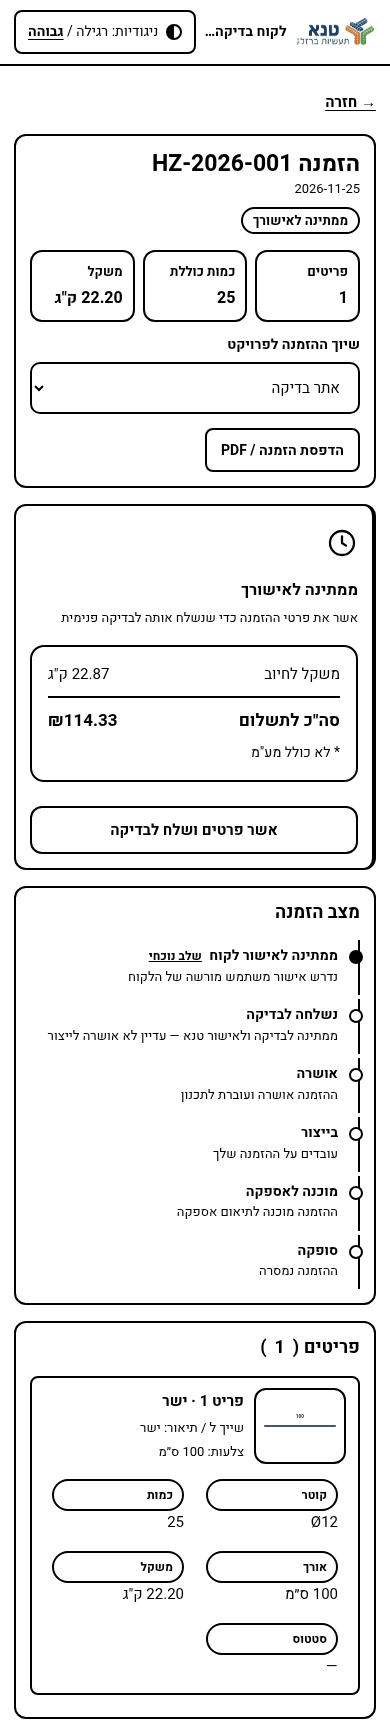
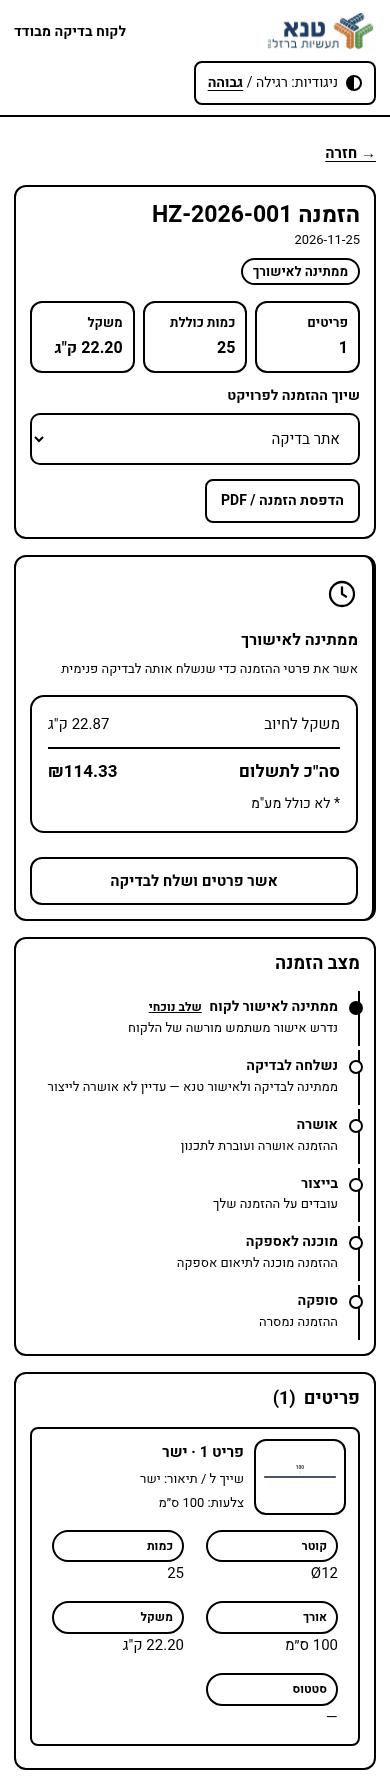
Refine customer portal dates and responsive layout

diff --git a/public/customer.html b/public/customer.html
@@ -635,7 +635,7 @@
       </div>
       <div class="field">
         <label for="delivDate">תאריך אספקה</label>
-        <input type="date" id="delivDate"/>
+        <input id="delivDate" type="text" lang="he" dir="ltr" inputmode="numeric" maxlength="10" placeholder="dd/mm/yyyy" oninput="maskPortalDate(this)"/>
       </div>
       <div class="delivery-fields">
         <div class="field">
@@ -1389,8 +1389,8 @@ function renderSiteDetail(data) {
       <div class="site-detail-kpi"><span>ממתין לאישור</span><strong>${Number(data.pending_approval_count || 0)}</strong></div>
     </div>
     <div class="site-report-toolbar">
-      <div class="field"><label for="siteReportFrom">מתאריך</label><input id="siteReportFrom" type="date" value="${escapeHtml(data.from || '')}"></div>
-      <div class="field"><label for="siteReportTo">עד תאריך</label><input id="siteReportTo" type="date" value="${escapeHtml(data.to || '')}"></div>
+      <div class="field"><label for="siteReportFrom">מתאריך</label><input id="siteReportFrom" type="text" lang="he" dir="ltr" inputmode="numeric" maxlength="10" placeholder="dd/mm/yyyy" oninput="maskPortalDate(this)" value="${escapeHtml(portalDateInputValue(data.from || ''))}"></div>
+      <div class="field"><label for="siteReportTo">עד תאריך</label><input id="siteReportTo" type="text" lang="he" dir="ltr" inputmode="numeric" maxlength="10" placeholder="dd/mm/yyyy" oninput="maskPortalDate(this)" value="${escapeHtml(portalDateInputValue(data.to || ''))}"></div>
       <button type="button" class="btn btn-secondary btn-sm" onclick="applySiteReportPeriod()">הצג תקופה</button>
       <button type="button" class="btn btn-secondary btn-sm" onclick="downloadSiteReport(${site.id})">הורד דוח CSV</button>
     </div>
@@ -1399,15 +1399,24 @@ function renderSiteDetail(data) {
   `;
 }
 
+function readSiteReportPeriod() {
+  const from = readPortalDate(document.getElementById('siteReportFrom'));
+  if (from === null) return null;
+  const to = readPortalDate(document.getElementById('siteReportTo'));
+  return to === null ? null : { from, to };
+}
+
 function applySiteReportPeriod() {
   if (!PORTAL_ACTIVE_SITE_ID) return;
-  openSiteDetail(PORTAL_ACTIVE_SITE_ID, document.getElementById('siteReportFrom')?.value || '', document.getElementById('siteReportTo')?.value || '');
+  const period = readSiteReportPeriod();
+  if (period) openSiteDetail(PORTAL_ACTIVE_SITE_ID, period.from, period.to);
 }
 
 function downloadSiteReport(siteId) {
+  const period = readSiteReportPeriod();
+  if (!period) return;
+  const { from, to } = period;
   const query = new URLSearchParams({ token:TOKEN });
-  const from = document.getElementById('siteReportFrom')?.value || '';
-  const to = document.getElementById('siteReportTo')?.value || '';
   if (from) query.set('from', from);
   if (to) query.set('to', to);
   const link = document.createElement('a');
@@ -2032,29 +2041,48 @@ async function loadCustomerFinanceDashboard() {
   renderCustomerFinanceDashboard();
 }
 
-function historyDateInputValue(iso) {
+function portalDateInputValue(iso) {
   return iso.replace(/^(\d{4})-(\d{2})-(\d{2})$/, '$3/$2/$1');
 }
 
-function readPortalHistoryDate(input) {
-  const value = input.value.trim().replace(/^(\d{2})(\d{2})(\d{4})$/, '$1/$2/$3');
-  if (!value) return '';
-  const parts = /^(\d{2})\/(\d{2})\/(\d{4})$/.exec(value);
-  if (parts && parts[3] !== '0000') {
-    const iso = `${parts[3]}-${parts[2]}-${parts[1]}`;
-    const date = new Date(iso + 'T00:00:00Z');
-    if (!Number.isNaN(date.getTime()) && date.toISOString().slice(0, 10) === iso) return iso;
+function maskPortalDate(input) {
+  input.setCustomValidity('');
+  const previous = input.value;
+  const localized = portalDateInputValue(previous.trim());
+  const digits = localized.replace(/\D/g, '').slice(0, 8);
+  const value = [digits.slice(0, 2), digits.slice(2, 4), digits.slice(4)].filter(Boolean).join('/');
+  if (value === previous) return;
+
+  const digitsBeforeCaret = previous.slice(0, input.selectionStart).replace(/\D/g, '').length;
+  const caret = digitsBeforeCaret + Number(digitsBeforeCaret > 2) + Number(digitsBeforeCaret > 4);
+  input.value = value;
+  input.setSelectionRange(caret, caret);
+}
+
+function parsePortalDate(value) {
+  const localized = value.trim().replace(/^(\d{2})(\d{2})(\d{4})$/, '$1/$2/$3');
+  if (!localized) return '';
+  const parts = /^(\d{2})\/(\d{2})\/(\d{4})$/.exec(localized);
+  if (!parts || parts[3] === '0000') return null;
+  const iso = `${parts[3]}-${parts[2]}-${parts[1]}`;
+  const date = new Date(iso + 'T00:00:00Z');
+  return !Number.isNaN(date.getTime()) && date.toISOString().slice(0, 10) === iso ? iso : null;
+}
+
+function readPortalDate(input) {
+  const iso = parsePortalDate(input.value);
+  if (iso === null) {
+    input.setCustomValidity('יש להזין תאריך תקין בפורמט יום/חודש/שנה.');
+    input.reportValidity();
   }
-  input.setCustomValidity('יש להזין תאריך תקין בפורמט יום/חודש/שנה.');
-  input.reportValidity();
-  return null;
+  return iso;
 }
 
 async function applyPortalHistoryFilters(event) {
   event.preventDefault();
-  const from = readPortalHistoryDate(document.getElementById('portalHistoryFrom'));
+  const from = readPortalDate(document.getElementById('portalHistoryFrom'));
   if (from === null) return;
-  const to = readPortalHistoryDate(document.getElementById('portalHistoryTo'));
+  const to = readPortalDate(document.getElementById('portalHistoryTo'));
   if (to === null) return;
   Object.assign(portalHistoryFilters, { status: document.getElementById('portalHistoryStatus').value, from, to });
   await updatePortalHistory(document.getElementById('portalHistoryApply'), 0);
@@ -2126,11 +2154,11 @@ function renderCustomerFinanceDashboard() {
         </div>
         <div class="field">
           <label for="portalHistoryFrom">מתאריך</label>
-          <input id="portalHistoryFrom" type="text" lang="he-IL" dir="ltr" inputmode="numeric" maxlength="10" placeholder="dd/mm/yyyy" value="${escapeHtml(historyDateInputValue(portalHistoryFilters.from))}" oninput="this.setCustomValidity('')">
+          <input id="portalHistoryFrom" type="text" lang="he" dir="ltr" inputmode="numeric" maxlength="10" placeholder="dd/mm/yyyy" oninput="maskPortalDate(this)" value="${escapeHtml(portalDateInputValue(portalHistoryFilters.from))}">
         </div>
         <div class="field">
           <label for="portalHistoryTo">עד תאריך</label>
-          <input id="portalHistoryTo" type="text" lang="he-IL" dir="ltr" inputmode="numeric" maxlength="10" placeholder="dd/mm/yyyy" value="${escapeHtml(historyDateInputValue(portalHistoryFilters.to))}" oninput="this.setCustomValidity('')">
+          <input id="portalHistoryTo" type="text" lang="he" dir="ltr" inputmode="numeric" maxlength="10" placeholder="dd/mm/yyyy" oninput="maskPortalDate(this)" value="${escapeHtml(portalDateInputValue(portalHistoryFilters.to))}">
         </div>
         <button type="submit" class="btn btn-secondary btn-sm" id="portalHistoryApply">סנן היסטוריה</button>
       </form>
@@ -2812,7 +2840,7 @@ function renderDetail(order) {
     ${isPendingApproval ? '' : price}
 
     <section class="section-card portal-detail-items">
-      <h2 class="step-title" id="portalDetailItemsTitle">פריטים (<bdi>${allItems.length}</bdi>)</h2>
+      <h2 class="step-title" id="portalDetailItemsTitle">פריטים <bdi dir="ltr">(${allItems.length})</bdi></h2>
       ${itemsHtml ? `<div class="portal-detail-table" role="table" aria-labelledby="portalDetailItemsTitle">
         <div class="portal-detail-table-head" role="row">
           <span role="columnheader">פריט</span><span role="columnheader">קוטר</span><span role="columnheader">כמות</span>
@@ -2909,6 +2937,7 @@ function savePortalDraft(notify = true) {
   const key = portalDraftStorageKey();
   if (!key || !orderItems.length) return false;
   const fields = Object.fromEntries(Object.entries(portalDraftFields).map(([name, id]) => [name, document.getElementById(id).value]));
+  fields.deliveryDate = parsePortalDate(fields.deliveryDate) || '';
   try {
     localStorage.setItem(key, JSON.stringify({
       ...fields, orderItems, idempotencyKey: ensurePortalDraftKey(), pendingOrder: portalPendingOrder, submissionUserId: portalSubmissionUserId,
@@ -2938,7 +2967,8 @@ function restorePortalDraft() {
     portalSourceFiles = Array.isArray(draft.attachments) ? draft.attachments : [];
     for (const [field, id] of Object.entries(portalDraftFields)) {
       if (field === 'siteId' && !PORTAL_SITES.some(site => String(site.id) === draft.siteId)) continue;
-      document.getElementById(id).value = draft[field] || (field === 'deliveryMode' ? 'משלוח' : '');
+      const value = draft[field] || (field === 'deliveryMode' ? 'משלוח' : '');
+      document.getElementById(id).value = field === 'deliveryDate' ? portalDateInputValue(value) : value;
     }
     if (savePortalDraft(false)) localStorage.removeItem(legacyKey);
     return true;
@@ -2966,7 +2996,6 @@ function showOrderScreen(navigation = {}) {
     else renderItems();
     renderPortalFileList();
   }
-  document.getElementById('delivDate').min = portalDateFormatter.format();
   showScreen('screenOrder', navigation);
   setPortalOrderStep(0);
 }
@@ -3546,8 +3575,9 @@ async function performPortalOrderSubmit(event) {
     }
 
     const date = document.getElementById('delivDate');
-    date.min = portalDateFormatter.format();
-    if (date.value && date.value < date.min) {
+    const deliveryDate = readPortalDate(date);
+    if (deliveryDate === null) return;
+    if (deliveryDate && deliveryDate < portalDateFormatter.format()) {
       toast('יש לבחור תאריך אספקה מהיום ואילך', true);
       date.focus();
       return;
@@ -3561,7 +3591,7 @@ async function performPortalOrderSubmit(event) {
     portalPendingOrder = {
       idempotency_key: portalDraftIdempotencyKey,
       items: orderItems.map(portalOrderItemPayload),
-      deliveryDate: date.value,
+      deliveryDate,
       deliveryTime: document.getElementById('delivTime').value,
       deliveryAddress: document.getElementById('delivAddr').value + ' ' + document.getElementById('delivMode').value,
       siteId: selectedPortalSiteId(),

diff --git a/public/portal-guarantees.html b/public/portal-guarantees.html
@@ -37,8 +37,45 @@
 <script>
 const labels={uploaded_pending_review:'ממתינה לבדיקה',approved:'מאושרת',rejected:'נדחתה',expired:'פג תוקף',revoked:'בוטלה'},busy=new Set();
 const esc=v=>String(v??'').replace(/[&<>"']/g,c=>({'&':'&amp;','<':'&lt;','>':'&gt;','"':'&quot;',"'":'&#39;'}[c]));
-async function load(){try{const q=document.getElementById('status').value;const r=await fetch('/api/portal/guarantees'+(q?'?status='+encodeURIComponent(q):''));const d=await r.json();if(!r.ok)throw Error(d.user_message || d.error||'אין הרשאה לצפות במסמכי הערבות');document.getElementById('error').textContent='';document.getElementById('list').innerHTML=d.documents.map(x=>`<article class="portal-office-card"><div class="portal-office-row"><b><bdi>${esc(x.original_name)}</bdi></b><span>${esc(labels[x.computed_status]||x.computed_status)}</span></div><small>לקוח #<bdi>${x.customer_id}</bdi> · הועלה <bdi>${esc(x.uploaded_at||'')}</bdi> · תוקף <bdi>${esc(x.valid_until||'טרם נקבע')}</bdi></small><p>${esc(x.notes||'')}</p><button onclick="download(${x.id},this)">הורד מסמך</button>${d.canReview?`<div class="portal-office-row"><label for="date-${x.id}">תוקף עד</label><input id="date-${x.id}" type="date" value="${esc(x.valid_until||'')}"><label for="note-${x.id}">נימוק / הערה</label><input id="note-${x.id}" maxlength="1000"><button onclick="review(${x.id},'approved',this)">אישור</button><button onclick="review(${x.id},'rejected',this)">דחייה</button><button onclick="review(${x.id},'revoked',this)">ביטול אישור</button></div>`:''}</article>`).join('')||'<p>אין מסמכים בתצוגה זו.</p>';}catch(e){document.getElementById('error').textContent=(window.IronBendMessages?.text(e.message) ?? e.message);}}
+function portalDateInputValue(iso) {
+  return iso.replace(/^(\d{4})-(\d{2})-(\d{2})$/, '$3/$2/$1');
+}
+
+function maskPortalDate(input) {
+  input.setCustomValidity('');
+  const previous = input.value;
+  const localized = portalDateInputValue(previous.trim());
+  const digits = localized.replace(/\D/g, '').slice(0, 8);
+  const value = [digits.slice(0, 2), digits.slice(2, 4), digits.slice(4)].filter(Boolean).join('/');
+  if (value === previous) return;
+
+  const digitsBeforeCaret = previous.slice(0, input.selectionStart).replace(/\D/g, '').length;
+  const caret = digitsBeforeCaret + Number(digitsBeforeCaret > 2) + Number(digitsBeforeCaret > 4);
+  input.value = value;
+  input.setSelectionRange(caret, caret);
+}
+
+function parsePortalDate(value) {
+  const localized = value.trim().replace(/^(\d{2})(\d{2})(\d{4})$/, '$1/$2/$3');
+  if (!localized) return '';
+  const parts = /^(\d{2})\/(\d{2})\/(\d{4})$/.exec(localized);
+  if (!parts || parts[3] === '0000') return null;
+  const iso = `${parts[3]}-${parts[2]}-${parts[1]}`;
+  const date = new Date(iso + 'T00:00:00Z');
+  return !Number.isNaN(date.getTime()) && date.toISOString().slice(0, 10) === iso ? iso : null;
+}
+
+function readPortalDate(input) {
+  const iso = parsePortalDate(input.value);
+  if (iso === null) {
+    input.setCustomValidity('יש להזין תאריך תקין בפורמט יום/חודש/שנה.');
+    input.reportValidity();
+  }
+  return iso;
+}
+
+async function load(){try{const q=document.getElementById('status').value;const r=await fetch('/api/portal/guarantees'+(q?'?status='+encodeURIComponent(q):''));const d=await r.json();if(!r.ok)throw Error(d.user_message || d.error||'אין הרשאה לצפות במסמכי הערבות');document.getElementById('error').textContent='';document.getElementById('list').innerHTML=d.documents.map(x=>`<article class="portal-office-card"><div class="portal-office-row"><b><bdi>${esc(x.original_name)}</bdi></b><span>${esc(labels[x.computed_status]||x.computed_status)}</span></div><small>לקוח #<bdi>${x.customer_id}</bdi> · הועלה <bdi>${esc(x.uploaded_at||'')}</bdi> · תוקף <bdi>${esc(x.valid_until||'טרם נקבע')}</bdi></small><p>${esc(x.notes||'')}</p><button onclick="download(${x.id},this)">הורד מסמך</button>${d.canReview?`<div class="portal-office-row"><label for="date-${x.id}">תוקף עד</label><input id="date-${x.id}" type="text" lang="he" dir="ltr" inputmode="numeric" maxlength="10" placeholder="dd/mm/yyyy" oninput="maskPortalDate(this)" value="${esc(portalDateInputValue(x.valid_until || ''))}"><label for="note-${x.id}">נימוק / הערה</label><input id="note-${x.id}" maxlength="1000"><button onclick="review(${x.id},'approved',this)">אישור</button><button onclick="review(${x.id},'rejected',this)">דחייה</button><button onclick="review(${x.id},'revoked',this)">ביטול אישור</button></div>`:''}</article>`).join('')||'<p>אין מסמכים בתצוגה זו.</p>';}catch(e){document.getElementById('error').textContent=(window.IronBendMessages?.text(e.message) ?? e.message);}}
 async function download(id,button){button.disabled=true;try{const r=await fetch('/api/portal/guarantees/'+id+'/download');if(!r.ok)throw await window.IronBendMessages.responseError(r, 'הורדת המסמך נכשלה');const url=URL.createObjectURL(await r.blob());const a=document.createElement('a');a.href=url;const name=r.headers.get('Content-Disposition')?.split("filename*=UTF-8''")[1];a.download=name?decodeURIComponent(name):'guarantee';document.body.appendChild(a);a.click();a.remove();setTimeout(()=>URL.revokeObjectURL(url),1000);}catch(e){document.getElementById('error').textContent=(window.IronBendMessages?.text(e.message) ?? e.message);}finally{button.disabled=false;}}
-async function review(id,status,button){if(busy.has(id)||!confirm('לשמור החלטה: '+labels[status]+'? הפעולה תירשם ביומן הבקרה.'))return;busy.add(id);button.disabled=true;try{const valid_until=document.getElementById('date-'+id).value||null,notes=document.getElementById('note-'+id).value;const r=await fetch('/api/portal/guarantees/'+id,{method:'PATCH',headers:{'content-type':'application/json'},body:JSON.stringify({status,valid_until,notes})});const d=await r.json();if(!r.ok)throw Error(d.user_message || d.error||'ההחלטה לא נשמרה');await load();}catch(e){document.getElementById('error').textContent=(window.IronBendMessages?.text(e.message) ?? e.message);}finally{busy.delete(id);button.disabled=false;}}
+async function review(id,status,button){if(busy.has(id))return;const date=readPortalDate(document.getElementById('date-'+id));if(date===null||!confirm('לשמור החלטה: '+labels[status]+'? הפעולה תירשם ביומן הבקרה.'))return;busy.add(id);button.disabled=true;try{const valid_until=date||null,notes=document.getElementById('note-'+id).value;const r=await fetch('/api/portal/guarantees/'+id,{method:'PATCH',headers:{'content-type':'application/json'},body:JSON.stringify({status,valid_until,notes})});const d=await r.json();if(!r.ok)throw Error(d.user_message || d.error||'ההחלטה לא נשמרה');await load();}catch(e){document.getElementById('error').textContent=(window.IronBendMessages?.text(e.message) ?? e.message);}finally{busy.delete(id);button.disabled=false;}}
 load();
 </script></body></html>

diff --git a/test/customer-portal-date-format.test.js b/test/customer-portal-date-format.test.js
@@ -1,0 +1,67 @@
+'use strict';
+
+const assert = require('node:assert/strict');
+const test = require('node:test');
+const { loadPortalClient } = require('./helpers/customer-portal-client');
+
+test('portal date mask presents day first and validates calendar dates before converting to ISO', () => {
+  const client = loadPortalClient();
+  const input = client.element('delivDate');
+  input.setCustomValidity = message => { input.error = message; };
+  input.reportValidity = () => { input.reported = true; };
+  input.setSelectionRange = (start, end) => { input.selectionStart = start; input.selectionEnd = end; };
+
+  for (const value of ['29022028', '2028-02-29']) {
+    input.value = value;
+    input.selectionStart = value.length;
+    client.run("maskPortalDate(document.getElementById('delivDate'))");
+    assert.equal(input.value, '29/02/2028');
+    assert.equal(input.selectionStart, 10);
+    assert.equal(input.selectionEnd, 10);
+    assert.equal(client.run("readPortalDate(document.getElementById('delivDate'))"), '2028-02-29');
+  }
+
+  input.value = '29/02/2027';
+  assert.equal(client.run("readPortalDate(document.getElementById('delivDate'))"), null);
+  assert.match(input.error, /יום\/חודש\/שנה/);
+  assert.equal(input.reported, true);
+  assert.equal(client.run("parsePortalDate('')"), '');
+});
+
+test('an ISO delivery date from an existing draft displays day first and stays ISO when saved', () => {
+  const client = loadPortalClient();
+  const storage = new Map();
+  client.context.localStorage = {
+    getItem: key => storage.get(key),
+    setItem: (key, value) => storage.set(key, value),
+    removeItem: key => storage.delete(key),
+  };
+  client.run('ME = { id: 1 }; addItem()');
+  const key = client.run('portalDraftStorageKey()');
+  const draft = JSON.parse(storage.get(key));
+  draft.deliveryDate = '2028-02-29';
+  storage.set(key, JSON.stringify(draft));
+
+  assert.equal(client.run('restorePortalDraft()'), true);
+  assert.equal(client.element('delivDate').value, '29/02/2028');
+  assert.equal(JSON.parse(storage.get(key)).deliveryDate, '2028-02-29');
+});
+
+test('submitting a day-first delivery date sends the existing ISO API value', async () => {
+  const client = loadPortalClient();
+  client.run('addItem()');
+  const today = client.run('portalDateFormatter.format()');
+  client.element('delivDate').value = today.split('-').reverse().join('/');
+
+  const requests = [];
+  client.context.fetch = async (url, options) => {
+    requests.push({ url, body: JSON.parse(options.body) });
+    return { ok: true, json: async () => ({ success: true, orderId: 1 }) };
+  };
+  client.context.showPortalOrderReceipt = async () => {};
+
+  await client.run('submitOrder()');
+  assert.equal(requests.length, 1);
+  assert.equal(requests[0].url, '/api/c/order');
+  assert.equal(requests[0].body.deliveryDate, today);
+});

diff --git a/public/portal-customer.css b/public/portal-customer.css
@@ -386,6 +386,19 @@ html[data-tene-portal] {
 }
 .portal-app #screenOrder .ib-order-lines :is(input, select, button):focus-visible { outline-offset: -3px !important; }
 
+@media (min-width: 801px) {
+  .portal-app #screenOrder .ib-order-lines :is(.order-lines-head, .order-lines-grid-guides, .order-line-row, .order-line-add-row) {
+    grid-template-columns: 42px minmax(104px, .85fr) minmax(190px, 1.75fr) 68px 60px 76px 84px 88px 36px !important;
+    min-inline-size: 748px !important;
+  }
+  .portal-app #screenOrder .ib-order-lines .order-lines-head > * {
+    flex-direction: column;
+    gap: 1px;
+    line-height: 1.15;
+    white-space: nowrap;
+  }
+}
+
 .portal-app .finance-history-filters {
   grid-template-columns: repeat(3, minmax(0, 1fr)) auto;
   align-items: end;
@@ -564,17 +577,25 @@ html[data-tene-portal] {
 @media (max-width: 800px) {
   [data-tene-portal]:has(#screenOrder.active) { scroll-padding-block-end: 76px; }
   .portal-header { position: relative; }
-  .portal-header-inner { min-block-size: 60px; gap: 8px; padding-inline: 14px; }
+  .portal-header-inner {
+    display: grid;
+    grid-template-columns: auto minmax(0, 1fr);
+    gap: 8px 12px;
+    padding-inline: 14px;
+  }
   .portal-header .header-logo img,
   .portal-header .logo-img,
   .portal-header .portal-logo { inline-size: 111px; }
   .portal-header .header-sub { display: none; }
   .portal-header .header-name {
-    flex: 1 1 auto;
     min-inline-size: 0;
-    overflow: hidden;
-    text-overflow: ellipsis;
-    white-space: nowrap;
+    justify-self: end;
+    text-align: end;
+  }
+  .portal-header .portal-contrast-toggle {
+    grid-column: 1 / -1;
+    justify-self: start;
+    margin-inline-start: 0;
   }
   .portal-app :is(#screenHome, #screenOrder, #screenDetail, #screenSiteDetail) { padding: 14px; }
   .portal-app :is(.section-card, .card) { padding: 14px; }
